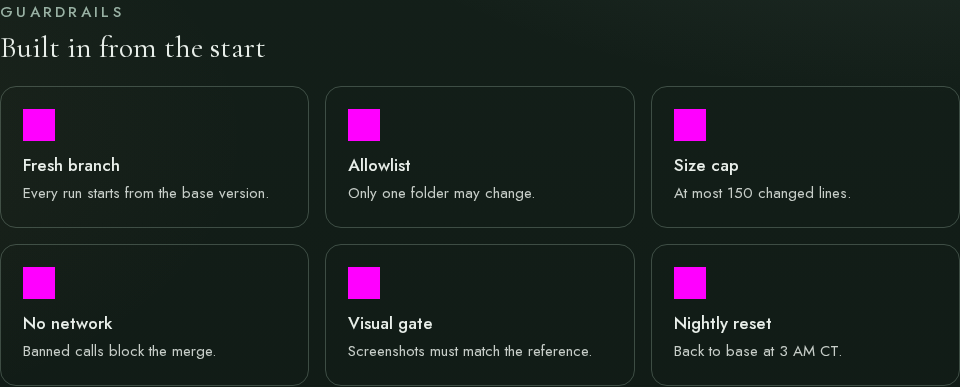
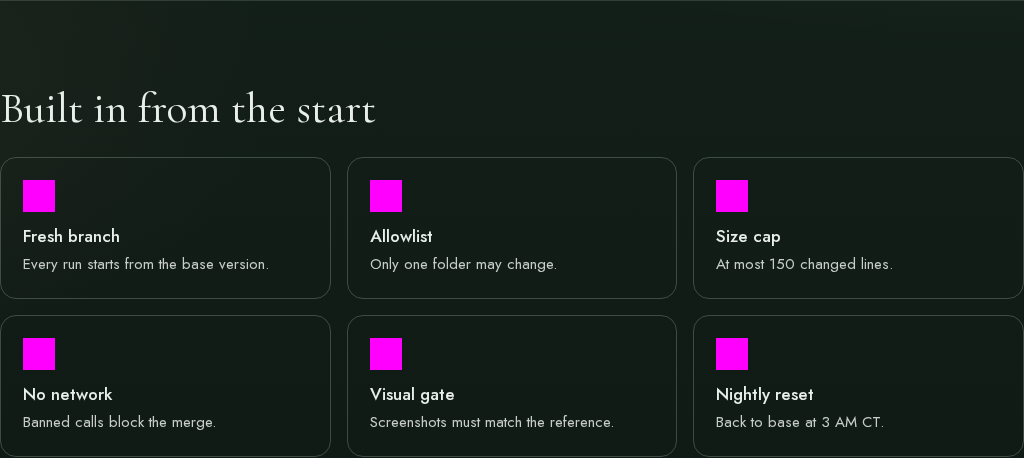
Kit: no eyebrow above feature headings (check + eyebrow-free references)

diff --git a/scripts/v2/check-feature.js b/scripts/v2/check-feature.js
@@ -82,6 +82,22 @@ if (args[0] === "--compare") { // node check-feature.js --compare a.png b.png : 
     ok(sx <= 0, `no sideways scroll (${sx}px overflow)`);
     const bb = await sec.boundingBox();
     ok(bb && bb.x >= 0 && bb.x + bb.width <= w + 1, `feature fits the ${w}px viewport`);
+    // NO-EYEBROW (David, 2026-10-14): no text may sit above the feature's <h2> (e.g. a small caps "EXAMPLE DATA" kicker).
+    // An "Example data" disclosure belongs in a plain line under the content. Buttons/links (e.g. a theme toggle) don't count.
+    const eb = await sec.evaluate((s) => {
+      const h = s.querySelector("h2"); if (!h) return { h2: false, text: [] };
+      const vis = (e) => { const r = e.getBoundingClientRect(), cs = getComputedStyle(e); return r.width > 0 && r.height > 0 && cs.visibility !== "hidden" && cs.display !== "none" && +cs.opacity > 0; };
+      const tw = document.createTreeWalker(s, NodeFilter.SHOW_TEXT), text = [];
+      for (let n; (n = tw.nextNode()); ) {
+        const t = n.textContent.trim(), e = n.parentElement;
+        if (!t || !e || e.closest("style,script,h2,button,a,[role=tab],[role=tablist],input,select,label")) continue;
+        if (!(h.compareDocumentPosition(n) & Node.DOCUMENT_POSITION_PRECEDING) || !vis(e)) continue;
+        text.push(t.slice(0, 40));
+      }
+      return { h2: true, text };
+    });
+    ok(eb.h2, "feature has an <h2> heading");
+    ok(eb.h2 && eb.text.length === 0, `no eyebrow above the heading${eb.text.length ? ` (found "${eb.text.join(" | ")}"; put any "Example data" note in a plain line under the content)` : ""}`);
     await spec.check({ page, sec, ok, w, engine, log, phase: "before-shot" });
     if (spec.art) { // design-led: Naomi's artwork must load (or show its fallback) and fit; its pixels are masked from the diff
       const arts = sec.locator("[data-art]"), n = await arts.count(), sb = await sec.boundingBox();

diff --git a/scripts/v2/README.md b/scripts/v2/README.md
@@ -28,4 +28,5 @@ and the functional checks in `specs/`). Regenerate references only with a human'
 Every number a feature shows (stats, counters, prices, dates, counts) must be real and verifiable, with a label that says
 exactly what it counts and, if it changes over time, when it was counted (e.g. "Runs shipped by Oct 11").
 Put the source in a code comment next to the value. If a number can't be verified, label it on the page as example data
-(e.g. "Example data"), never present it as fact. Features and reviews follow this rule; Priya rejects a PR that breaks it.
+in a plain sentence-case line under the content (e.g. "Example data: ..."), never present it as fact. No eyebrow:
+nothing may sit above a feature's <h2> (no small caps kicker); `check-feature.js` fails the build if it does. Features and reviews follow this rule; Priya rejects a PR that breaks it.

diff --git a/app/lab/README.md b/app/lab/README.md
@@ -13,6 +13,6 @@ Only showcase v2 (feature-menu) runs write here, and only when the `demoMode` fl
   It runs before every v2 run, from the admin page, and nightly at 3 AM CT (`.github/workflows/lab-reset.yml`).
   The classic heading and image are never touched by the reset.
 
-- Feature content uses only real, verifiable numbers with honest labels (source in a code comment), or is labeled "Example data" on the page. See `scripts/v2/README.md`.
+- Feature content uses only real, verifiable numbers with honest labels (source in a code comment), or is labeled "Example data" in a plain line under the content. No eyebrow (small caps text) above the feature's heading; the check fails it. See `scripts/v2/README.md`.
 
 Files in this folder that are not a feature folder (`README.md`, `menu.json`) are base files and are never removed.
